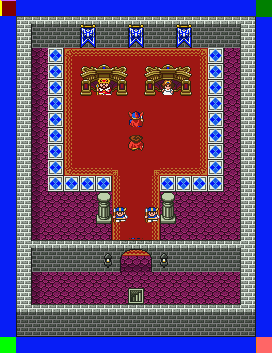
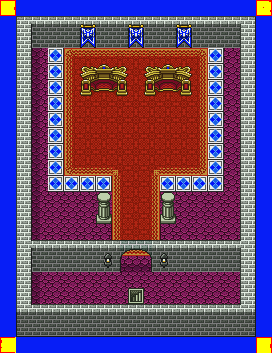
# Re-did the castle map
Redid the starter castle tile maps and tile sets. You can now go
upstairs and down stairs or out to the world map!

diff --git a/MiniRPG/Resources/maps/meta.tsx b/MiniRPG/Resources/maps/meta.tsx
@@ -1,0 +1,9 @@
+<?xml version="1.0" encoding="UTF-8"?>
+<tileset name="meta_tiles" tilewidth="16" tileheight="16" margin="5">
+ <image source="meta_tiles.png" width="64" height="32"/>
+ <tile id="0">
+  <properties>
+   <property name="collidable" value="true"/>
+  </properties>
+ </tile>
+</tileset>

diff --git a/MiniRPG/Classes/config.h b/MiniRPG/Classes/config.h
@@ -2,7 +2,6 @@
 //  config.h
 //  MiniRPG
 //
-//  Created by Brandon Trebitowski on 1/6/13.
 //
 //
 
@@ -10,6 +9,6 @@
 #define MiniRPG_config_h
 
 #define kGameScale 2
-#define kStartingRoom "castle1"
+#define kStartingRoom "airgetlam_castle_throne"
 
 #endif
